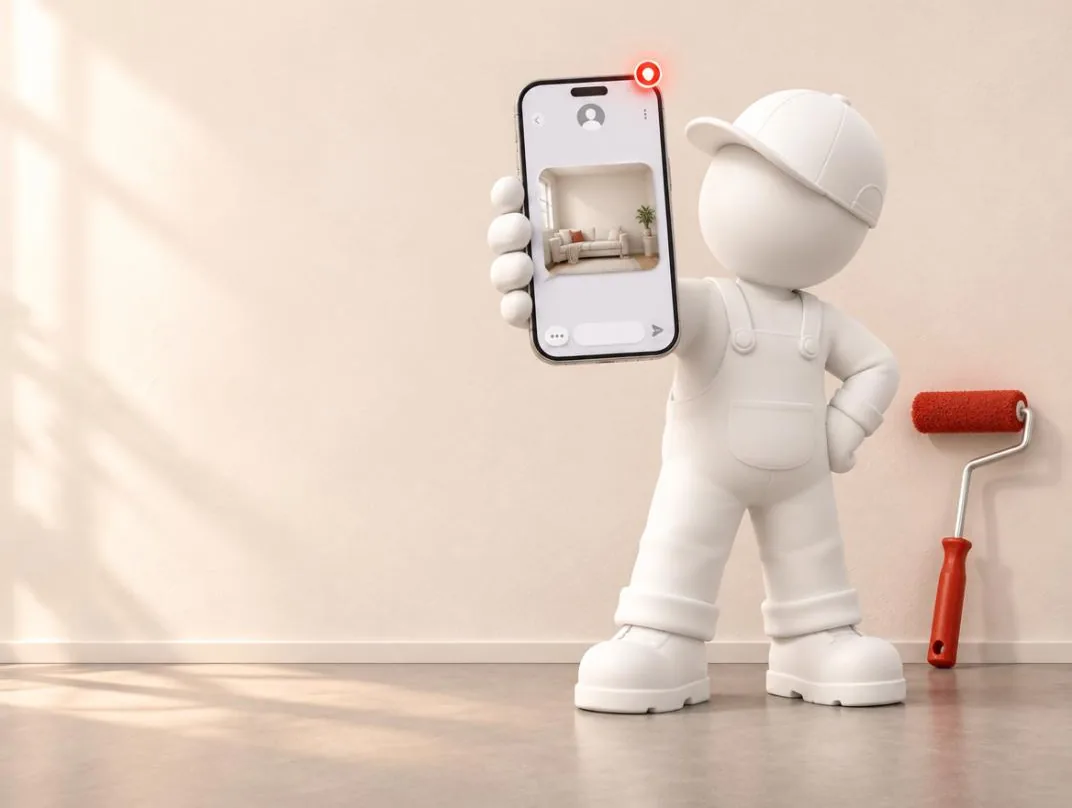
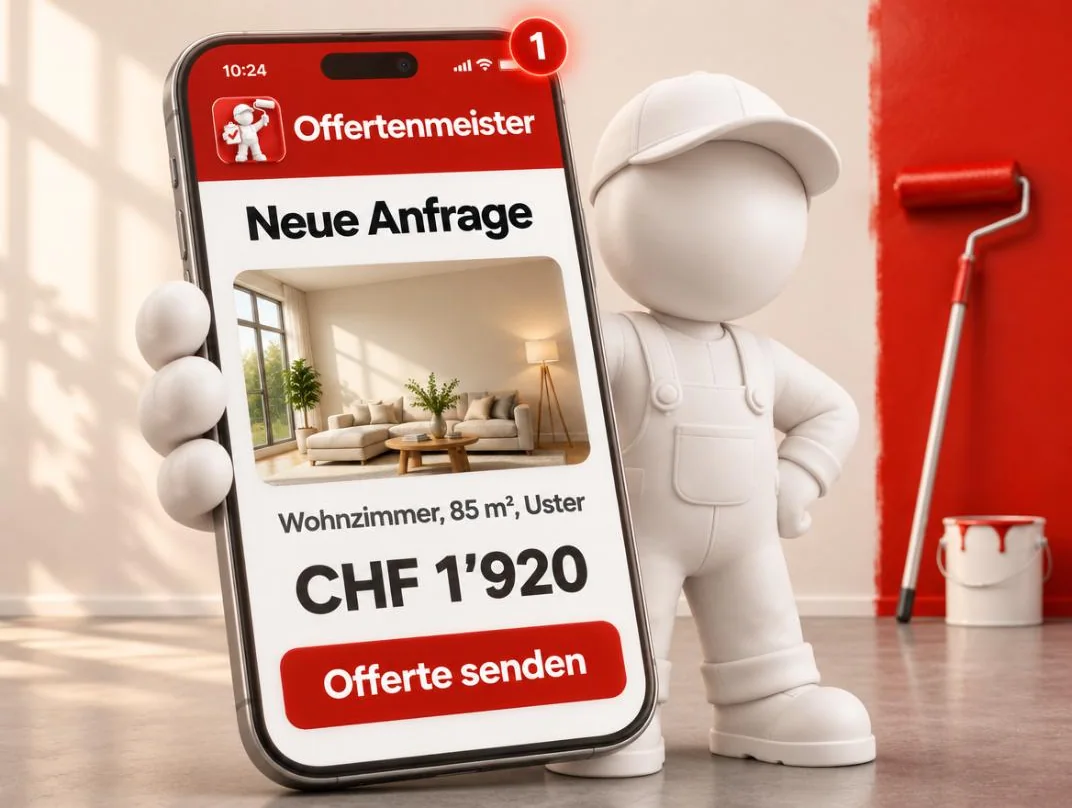
Leistungen: 3D-Bild mit Offertenmeister-Anfrage auf dem Handy
Claude-Session: https://claude.ai/code/session_01QJ9qhBWSWt6m13eEh928jz

diff --git a/index.html b/index.html
@@ -235,7 +235,7 @@ input:focus,select:focus{border-color:var(--graphit)}
 </div></section>
 
 <section class="teil" id="leistungen"><div class="wrap split">
-  <div class="bild"><img src="/img/anfrage.webp" width="1072" height="808" alt="Maler hält ein Handy mit einer neuen Kundenanfrage samt Foto" loading="lazy"></div>
+  <div class="bild"><img src="/img/anfrage.webp" width="1072" height="808" alt="Maler hält ein Handy mit einer neuen Anfrage auf Offertenmeister: Wohnzimmer, 85 m², Uster, CHF 1920, Knopf Offerte senden" loading="lazy"></div>
   <div class="text">
     <h2>Die Anfrage kommt direkt aufs Handy.</h2>
     <p>Kein Suchen in E-Mails, kein Rückruf ins Leere. Der Kunde schickt Arbeit, Fläche, Ort und Fotos – Sie sehen alles auf einen Blick.</p>
